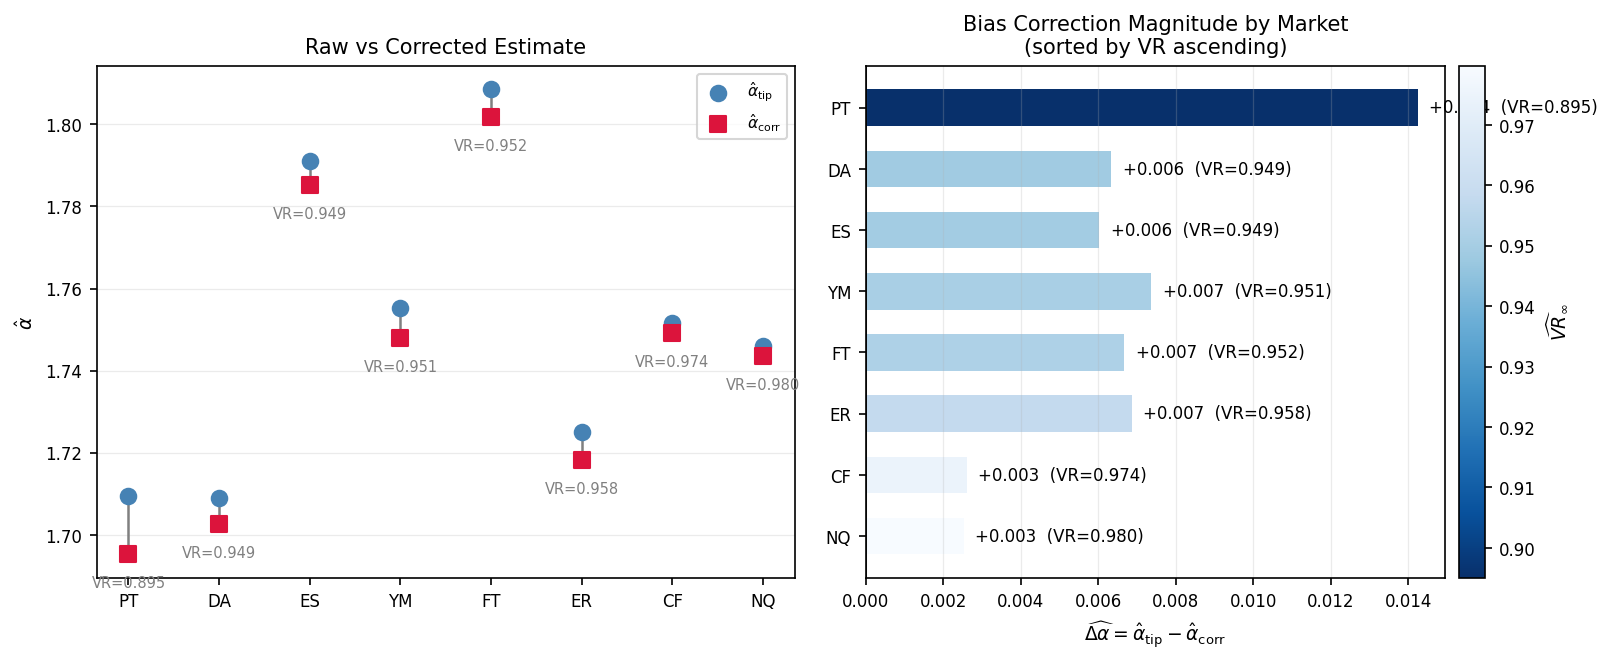
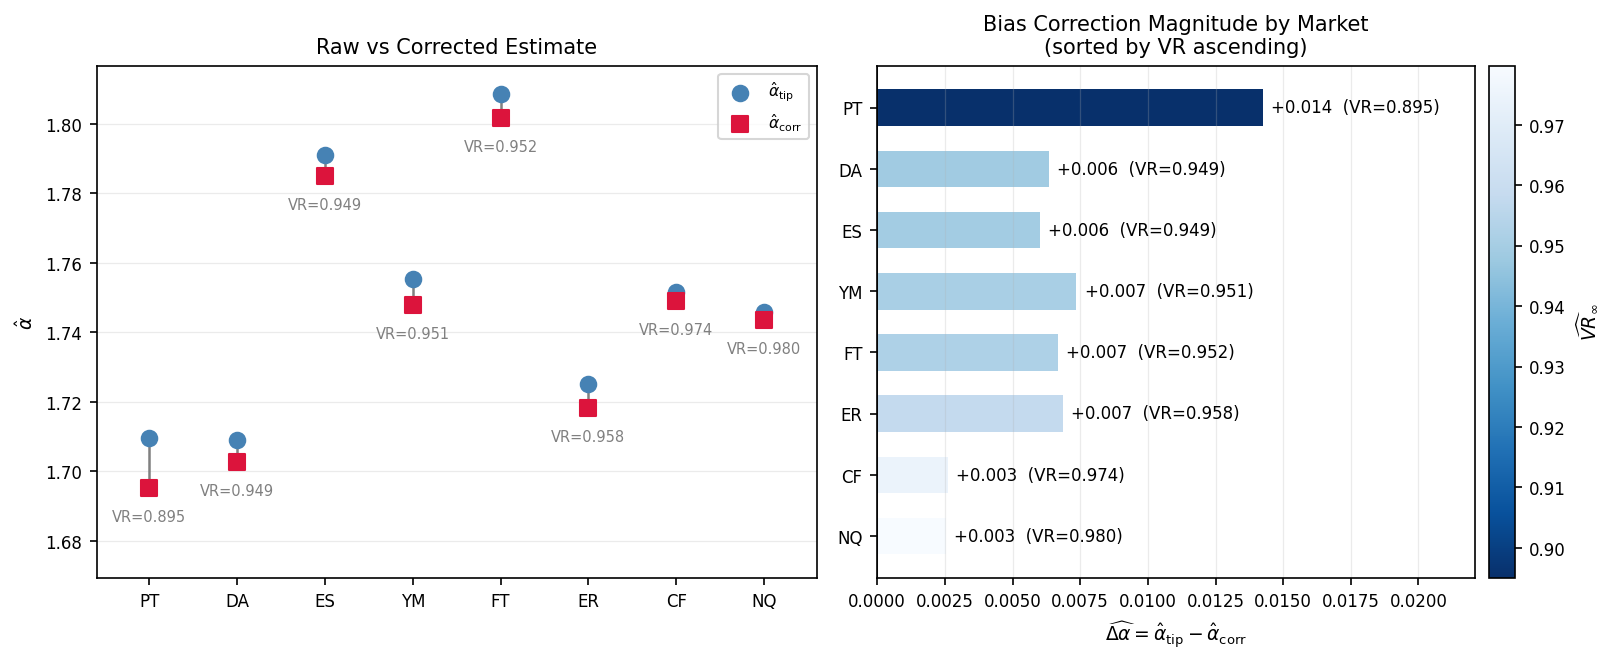
Fix Fig 3 label clipping; span Algorithm 1 across both columns

diff --git a/paper/main.tex b/paper/main.tex
@@ -682,23 +682,16 @@ $\alphah_{\mathrm{corr}} = -1/\hat{m}_{\mathrm{corr}}$, recovering
 Equation~\eqref{eq:corrected_peak}.
 
 % ── Estimation pipeline (end of methodology) ─────────────────────────────────
-\begin{algorithm}[t]
+\begin{algorithm*}[!t]
 \caption{L\'{e}vy Scaling Exponent Estimation}
 \label{alg:pipeline}
 \begin{algorithmic}[1]
-\Require Price series $\{P(t)\}$, tick size $\Delta$, decimal multiplier $M$,
-         1-minute volatility $\sigma_1$,
-         resolution grid $\varepsilon\!\in\!\{0.1,0.2,0.3,0.4,0.5\}$,
-         lag grid $\mathcal{T}=\{\tau_1,\ldots,\tau_{N_\tau}\}$,
-         bin count $N_x=2{,}000$,
-         autocorrelation truncation $K_{\max}=60$
-\Ensure $\alphah_{\mathrm{tip}}$,\;
-        $\alphah_{\mathrm{sf}}$,\;
-        $\alphah_{\mathrm{collapse}}$,\;
-        $\alphah_{\mathrm{corr}}$
+\Require Price series $\{P(t)\}$; tick $\Delta$; multiplier $M$; volatility $\sigma_1$;
+         $\varepsilon\!\in\!\{0.1,\ldots,0.5\}$; lag grid $\mathcal{T}$; $N_x=2{,}000$; $K_{\max}=60$
+\Ensure $\alphah_{\mathrm{tip}}$,\; $\alphah_{\mathrm{sf}}$,\; $\alphah_{\mathrm{collapse}}$,\; $\alphah_{\mathrm{corr}}$
 \Statex
 \State \textbf{Step 1 Preprocessing}
-\State Integer-scale prices:\; $p(t)\leftarrow\mathrm{round}(P(t)\cdot M)$, $M$ the decimal multiplier
+\State Integer-scale prices:\; $p(t)\leftarrow\mathrm{round}(P(t)\cdot M)$
 \State LOCF-fill missing intraday minutes within each trading session
 \State Estimate volatility profile: $\hat{\sigma}_m\leftarrow D_m^{-1}\sum_{d:\,m(k)=m}|\delta_k|$;\; normalize so $\bar{\hat\sigma}=1$
 \State Deseasonalize: $\tilde{P}(t)=\textstyle\sum_{k=1}^{t}\delta_k/\hat\sigma_{m(k)}$
@@ -706,8 +699,7 @@ Equation~\eqref{eq:corrected_peak}.
 \State \textbf{Step 2 Empirical PDF construction}
 \For{each $\tau\in\mathcal{T}$}
   \State Compute increments $\delta_\tau(t)=p(t)-p(t-\tau)$
-  \State $x_{\max}\leftarrow\Delta N_x\max(\lfloor\varepsilon\sigma_1/\Delta\rceil,1)$;\; $\Delta x\leftarrow 2x_{\max}/N_x$
-  \State Grid: $N_x+1=2{,}001$ bin centers spanning $[-x_{\max},x_{\max}]$
+  \State $x_{\max}\leftarrow\Delta N_x\max(\lfloor\varepsilon\sigma_1/\Delta\rceil,1)$;\; $\Delta x\leftarrow 2x_{\max}/N_x$;\; $N_x{+}1$ bin centers on $[-x_{\max},x_{\max}]$
   \State Build normalized histogram $\Ph(x_j,\tau)$ per Eq.~\eqref{eq:pdf_hat}
   \State Record peak: $\Ph(0,\tau)\leftarrow$ density of bin nearest $x=0$
 \EndFor
@@ -732,7 +724,7 @@ Equation~\eqref{eq:corrected_peak}.
 \State Set $b(\tau)\leftarrow-\tfrac{1}{2}\log\VRh(\tau)$;\; regress $\log\Ph(0,\tau)-b(\tau)$ on $\log\tau$ (coeff.\ of $b(\tau)$ fixed at 1)
 \State $\alphah_{\mathrm{corr}}\leftarrow-1/\hat{m}_{\mathrm{corr}}$
 \end{algorithmic}
-\end{algorithm}
+\end{algorithm*}
 
 The correction is implemented as a constrained fit with the coefficient of
 $b(\tau)$ fixed at 1, rather than a free two-regressor regression. On the

diff --git a/paper/preamble.tex b/paper/preamble.tex
@@ -38,6 +38,16 @@
 \algrenewcommand\algorithmicensure{\textbf{Output:}}
 \algrenewcommand\alglinenumber[1]{{\footnotesize#1}}
 
+% Some versions of algorithm.sty do not provide the starred (double-column)
+% variant. Define it only if absent, so Algorithm 1 can span both columns;
+% as a single-column float it is too tall to share a page with body text and
+% is pushed onto a float page of its own.
+\makeatletter
+\@ifundefined{algorithm*}{%
+  \newenvironment{algorithm*}{\@dblfloat{algorithm}}{\end@dblfloat}%
+}{}
+\makeatother
+
 % ── Custom notation ───────────────────────────────────────────────────────────
 \newcommand{\alphah}{\hat{\alpha}}          % estimated alpha
 \newcommand{\Ph}{\hat{P}}                   % empirical PDF
